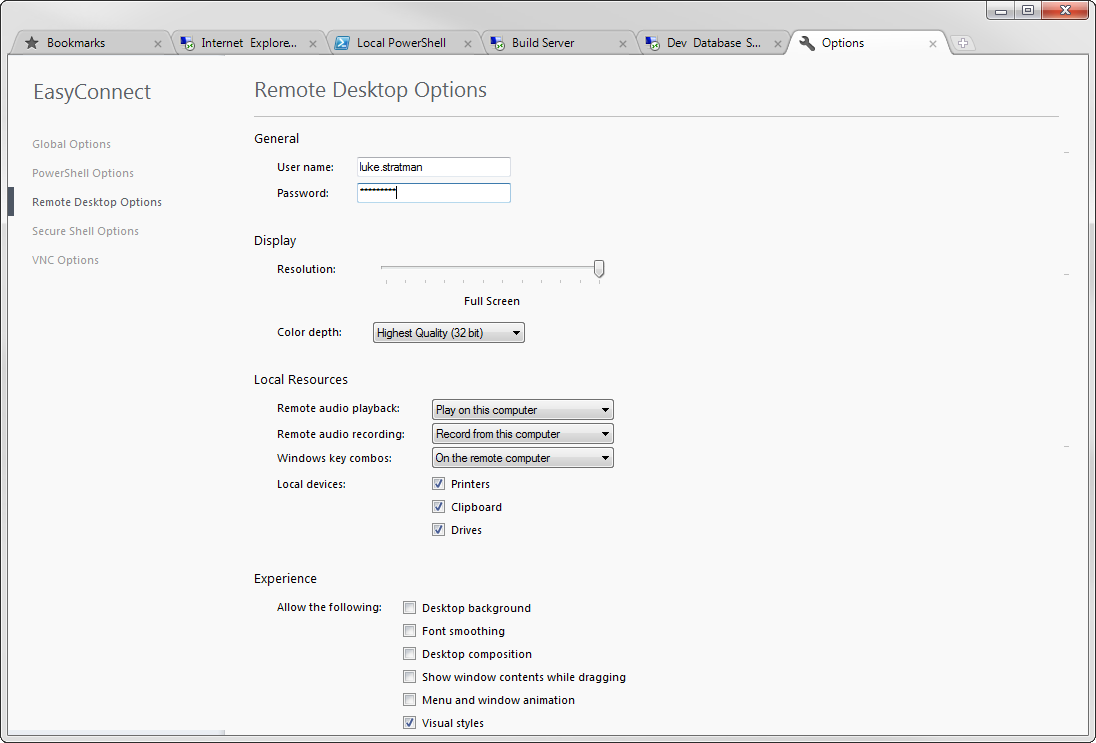
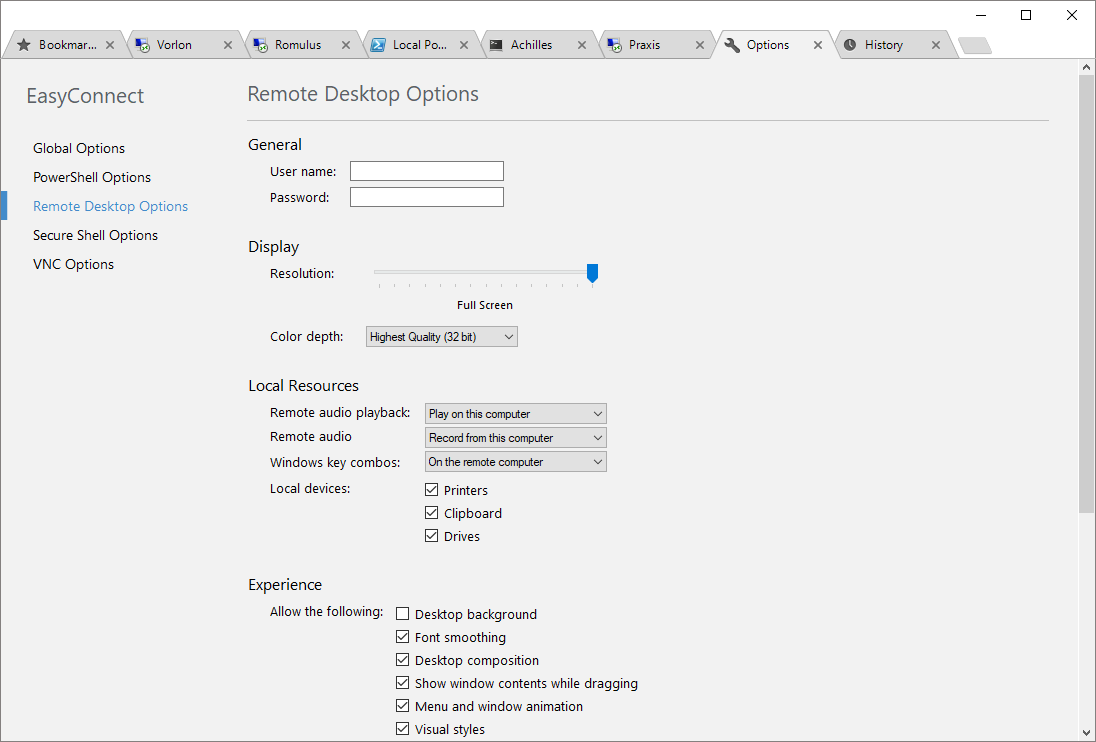
Updated for 2.0 release.

diff --git a/index.html b/index.html
@@ -26,9 +26,9 @@
 						<span class="icon-bar"></span>
 					</button>
 
-					<a class="navbar-brand" href="/">
-						<img src="images/EasyConnect.png"/> EasyConnect
-					</a>
+					<!--<a class="navbar-brand" href="/">
+						 EasyConnect
+					</a>-->
 				</div>
 				<div class="collapse navbar-collapse">
 					<ul class="nav navbar-nav navbar-right">
@@ -50,14 +50,14 @@
 			<div class="container">
 				<div class="row">
 					<div class="col-md-7">
-						<h1>EasyConnect</h1>
+						<h1><img src="images/EasyConnect.png"/> EasyConnect</h1>
 						<p>A tabbed remote desktop application with a Chrome-like UI and support for RDP, VNC, SSH, and remote PowerShell connections.</p>
 						<p>
 							<a class="btn btn-primary" href="updates/EasyConnect.msi">Download Installer</a>
 							<a class="btn btn-default" href="https://github.com/lstratman/EasyConnect"><img style="vertical-align: text-top;" width="16" src="images/GitHub.png"> Fork me on GitHub</a>
 						</p>
 						<br/>
-						<p>Current version: 1.5.1</p>
+						<p>Current version: 2.0</p>
 					</div>
 					<div class="col-md-5 visible-md visible-lg">
 						<div id="screenshots" class="carousel slide pull-right" data-ride="carousel">
@@ -181,7 +181,7 @@ C:\> cinst easyconnect</pre>
 			  <hr>
 
 			  <footer>
-				<p>&copy; 2012-2014 <a href="https://github.com/lstratman">Luke Stratman</a></p>
+				<p>&copy; 2012-2017 <a href="https://github.com/lstratman">Luke Stratman</a></p>
 			  </footer>
 		</div>
 

diff --git a/updates/2.0.html b/updates/2.0.html
@@ -1,0 +1,16 @@
+<html>
+	<head>
+		<link rel="stylesheet" type="text/css" href="updates.css"/>
+	</head>
+	<body>
+		<h3>Change log</h3>
+
+		<ul>
+			<li>Updated the look-and-feel to the latest version of Chrome.</li>
+		    <li>Updated the codebase for the terminal control used by the SSH and PowerShell plugins to the most recent version of the <a href="https://github.com/poderosaproject/poderosa" target="_blank">Poderosa project</a>.</li>
+		    <li>Moved to a <a href="https://github.com/qmfrederik/remoteviewing" target="_blank">new library</a> for VNC connections.</li>
+		    <li>Scrolling is now automatically enabled for all option screens.</li>
+		    <li>Added the ability to specify the port for remote desktop connections.</li>
+        </ul>
+	</body>
+</html>

diff --git a/css/styles.css b/css/styles.css
@@ -41,6 +41,14 @@ body {
     right: 30%;
 }
 
+.carousel-indicators li {
+    border-color: #428bca;
+}
+
+.carousel-indicators li.active {
+    background-color: #428bca;
+}
+
 #screenshots {
     border-radius: 3px;
     box-shadow: 0 0 3px #777;
@@ -176,4 +184,8 @@ pre .keywd {
 
 pre .comm {
     color: #319B44;
+}
+
+.col-md-7 h1 img {
+    margin-top: -14px
 }
